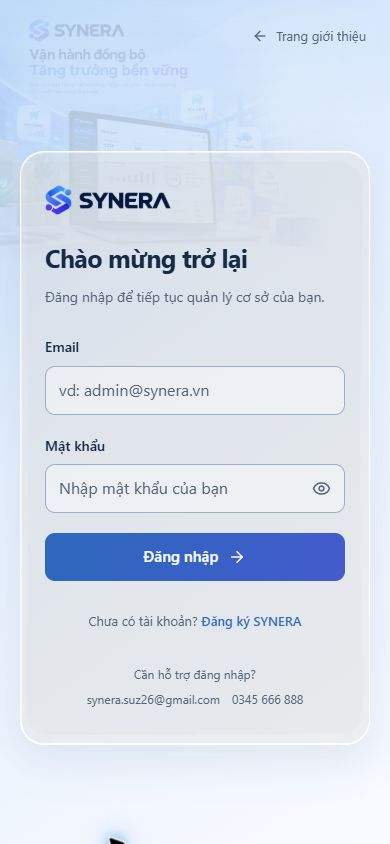
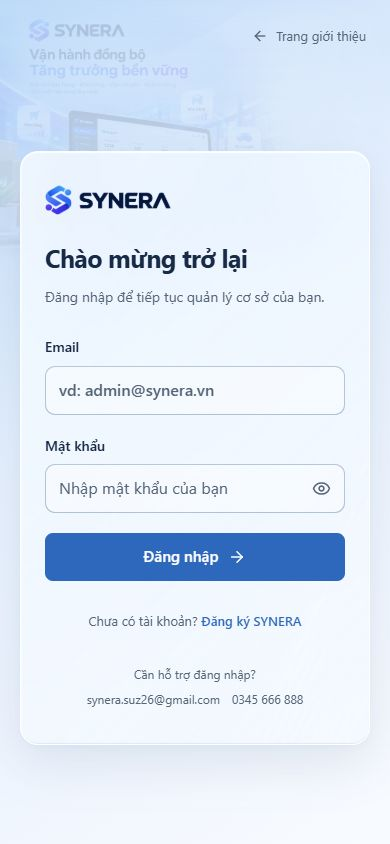
Revert "Use liquid-glass-react for SYNERA login material"
This reverts commit 55900597c729d1030a9facb94c81c5484c29b811.

diff --git a/frontend/app/login.css b/frontend/app/login.css
@@ -1,75 +1,61 @@
-/* User-approved SYNERA environment; liquid material is supplied by liquid-glass-react. */
+/* User-approved brand gradient and light glass, scoped only to the login page. */
 .synera-login {
   --login-paper: #fff; --login-ink: #122b49; --login-muted: #526479;
-  --login-blue: #1769c2; --login-hover: #1255a0; --login-line: #9cafc6;
+  --login-blue: #1769c2; --login-hover: #1255a0; --login-line: #aabed5;
   --login-sky: #b8dbfb; --login-pale: #e4f0ff; --login-near-white: #f8fbff;
-  --login-button-end: #405bd4; --login-glass: rgba(255,255,255,.28);
-  --login-blur: blur(16px) saturate(122%); --login-shadow: rgba(31,77,129,.11);
+  --login-glass: rgba(255,255,255,.25); --login-glass-line: rgba(255,255,255,.78);
+  --login-blur: blur(28px) saturate(145%); --login-input: rgba(255,255,255,.78); --login-shadow: rgba(31,77,129,.10);
   --login-error: #9e2531; --login-error-ground: #fff2f2;
   position: relative; isolation: isolate; display: grid; grid-template-columns: 58% 42%;
   min-height: 100svh; overflow: hidden; color: var(--login-ink);
-  background: radial-gradient(ellipse at 80% 52%,rgba(185,213,247,.6),transparent 55%),linear-gradient(110deg,var(--login-sky),var(--login-pale) 49%,var(--login-near-white) 80%,var(--login-paper));
+  background: radial-gradient(ellipse at 80% 52%,rgba(185,213,247,.6),transparent 55%), linear-gradient(110deg,var(--login-sky) 0%,var(--login-pale) 49%,var(--login-near-white) 80%,var(--login-paper) 100%);
   font: 15px/1.55 "Segoe UI", Arial, sans-serif;
 }
 .synera-login *, .synera-login *::before, .synera-login *::after { box-sizing: border-box; }
 .synera-login a { color: inherit; text-decoration: none; }
 .synera-login button, .synera-login input { font: inherit; }
 .synera-login p, .synera-login h1 { margin: 0; }
-.synera-login :focus-visible { outline: 2px solid var(--login-blue); outline-offset: 3px; }
-.synera-login__visual { position: absolute; z-index: -1; inset: 0 auto 0 0; width: 68%; display: flex; align-items: center; pointer-events: none; }
-.synera-login__visual img { display: block; width: 100%; height: auto; max-height: 100svh; object-fit: contain; object-position: left center; mask-image: linear-gradient(90deg,#000,#000 73%,transparent),linear-gradient(transparent,#000 8%,#000 92%,transparent); mask-composite: intersect; }
+.synera-login :focus-visible { outline: 2px solid var(--login-blue); outline-offset: 4px; }
+.synera-login__visual { position: absolute; z-index: -1; inset: 0 auto 0 0; width: 68%; display: flex; align-items: center; pointer-events: none; animation: synera-login-visual 340ms ease-out both; }
+.synera-login__visual img { display: block; width: 100%; height: auto; max-height: 100svh; object-fit: contain; object-position: left center; mask-image: linear-gradient(90deg,#000 0%,#000 73%,transparent 100%), linear-gradient(transparent 0%,#000 8%,#000 92%,transparent 100%); mask-composite: intersect; }
 .synera-login__back { position: absolute; top: 28px; right: 40px; z-index: 2; display: inline-flex; align-items: center; gap: 8px; min-height: 44px; font-size: 13px; color: var(--login-muted) !important; }
 .synera-login__back:hover { color: var(--login-blue) !important; }
 .synera-login__account { grid-column: 2; display: flex; align-items: center; justify-content: center; padding: 96px 40px 64px 0; min-width: 0; }
-.synera-login__glass { position: relative; isolation: isolate; width: min(100%,440px); border-radius: 24px; }
-/* Native fallback appears immediately during SSR and on partial-support browsers. */
-.synera-login__form { width: 100%; padding: 36px; color: var(--login-ink); background: var(--login-glass); border: 1px solid rgba(255,255,255,.82); border-radius: 24px; box-shadow: inset 0 1px 1px rgba(255,255,255,.9),0 14px 42px var(--login-shadow); -webkit-backdrop-filter: blur(16px); backdrop-filter: var(--login-blur); }
-/* Upstream's demo positioning/utility classes must not move the operational form.
-   Its five sibling layers share one stable footprint, even when validation changes height. */
-.synera-login__glass[data-glass-renderer="liquid-glass-react"] > * { transform: none !important; top: 0 !important; left: 0 !important; transition: none !important; }
-.synera-login__glass > .synera-login__material { position: relative !important; width: 100% !important; }
-.synera-login__glass[data-glass-renderer="liquid-glass-react"] > :not(.synera-login__material) { position: absolute !important; width: 100% !important; height: 100% !important; pointer-events: none !important; }
-.synera-login__glass[data-glass-renderer="liquid-glass-react"] > div:not(.synera-login__material) { display: none; } /* omit upstream demo black scrims */
-.synera-login__glass[data-glass-renderer="liquid-glass-react"] > span { z-index: 2; }
-.synera-login__material > svg { inset: 0; width: 100% !important; height: 100% !important; pointer-events: none; }
-.synera-login__material > .glass { display: block !important; width: 100%; padding: 0 !important; overflow: visible !important; border: 1px solid rgba(255,255,255,.78); background: rgba(255,255,255,.17); box-shadow: inset 0 1px 1px rgba(255,255,255,.8),0 14px 42px var(--login-shadow) !important; }
-.synera-login__material > .glass > .glass__warp { border-radius: inherit; pointer-events: none; background: rgba(255,255,255,.28); opacity: .14; }
-.synera-login__material > .glass > div { width: 100%; font: inherit !important; text-shadow: none !important; color: var(--login-ink) !important; }
-.synera-login__material .synera-login__form { background: transparent; border: 0; box-shadow: none; -webkit-backdrop-filter: none !important; backdrop-filter: none !important; }
-.synera-login__glass[data-glass-fallback] .glass__warp { filter: none !important; opacity: 1; -webkit-backdrop-filter: blur(16px); backdrop-filter: var(--login-blur) !important; background: rgba(255,255,255,.28); }
-.synera-login__glass[data-glass-static] > span { opacity: .28 !important; }
+.synera-login__form { width: min(100%,440px); padding: 36px; background: var(--login-glass); border: 1px solid var(--login-glass-line); border-radius: 20px; box-shadow: 0 16px 50px var(--login-shadow); -webkit-backdrop-filter: blur(24px); backdrop-filter: var(--login-blur); animation: synera-login-form 320ms ease-out both; }
 .synera-login__brand { display: inline-flex; align-items: center; min-height: 40px; margin-bottom: 26px; }
 .synera-login__brand .synera-logo { --synera-logo-height: 30px; --synera-logo-word: 92px; }
 .synera-login h1 { font-size: 27px; font-weight: 700; line-height: 1.3; letter-spacing: -.65px; }
 .synera-login__intro { margin-top: 10px !important; color: var(--login-muted); font-size: 14px; line-height: 1.65; }
 .synera-login form { display: grid; gap: 20px; margin-top: 28px; }
 .synera-login .sl-field { display: grid; gap: 8px; text-align: left; }
-.synera-login .sl-field > label,.synera-login .sl-field > span:not(.sl-password) { font-size: 14px; font-weight: 600; }
-.synera-login .sl-field input { width: 100%; min-height: 48px; padding: 11px 13px; border: 1px solid var(--login-line); border-radius: 10px; background: rgba(255,255,255,.42); color: var(--login-ink); font-size: 15px; font-weight: 400; transition: border-color 140ms,background-color 140ms; }
+.synera-login .sl-field > label, .synera-login .sl-field > span:not(.sl-password) { font-size: 14px; font-weight: 600; }
+.synera-login .sl-field input { width: 100%; min-height: 48px; padding: 11px 13px; border: 1px solid var(--login-line); border-radius: 8px; background: var(--login-input); color: var(--login-ink); font-size: 15px; transition: border-color 140ms,background-color 140ms; }
 .synera-login .sl-field input::placeholder { color: var(--login-muted); opacity: 1; }
 .synera-login .sl-field input:hover { border-color: var(--login-muted); }
-.synera-login .sl-field input:focus { border-color: var(--login-blue); outline: 2px solid var(--login-blue); outline-offset: 2px; background: rgba(255,255,255,.72); }
+.synera-login .sl-field input:focus { border-color: var(--login-blue); outline: 2px solid var(--login-blue); outline-offset: 2px; background: var(--login-paper); }
 .synera-login .sl-password { position: relative; display: block; }
 .synera-login .sl-password input { padding-right: 52px; }
-.synera-login .sl-password button { display: grid; place-items: center; position: absolute; top: 2px; right: 2px; width: 44px; height: 44px; padding: 0; border: 0; border-radius: 8px; color: var(--login-muted); background: transparent; cursor: pointer; transition: background-color 140ms; }
+.synera-login .sl-password button { display: grid; place-items: center; position: absolute; top: 2px; right: 2px; width: 44px; height: 44px; padding: 0; border: 0; border-radius: 6px; color: var(--login-muted); background: transparent; cursor: pointer; transition: background-color 140ms; }
 .synera-login .sl-password button:hover { background: var(--login-pale); color: var(--login-ink); }
-.synera-login .sl-button { display: inline-flex; align-items: center; justify-content: center; gap: 10px; min-height: 48px; width: 100%; padding: 11px 18px; background: linear-gradient(110deg,var(--login-blue),var(--login-button-end)); color: var(--login-paper); border: 0; border-radius: 10px; font-size: 15px; font-weight: 600; cursor: pointer; transition: filter 130ms,transform 130ms; }
-.synera-login .sl-button:hover { filter: brightness(1.06); transform: translateY(-1px); }
-.synera-login .sl-button:active { transform: scale(.985); }
-.synera-login .sl-button:disabled { background: var(--login-hover); cursor: wait; transform: none; filter: none; }
+.synera-login .sl-button { display: inline-flex; align-items: center; justify-content: center; gap: 10px; min-height: 48px; width: 100%; padding: 11px 18px; background: var(--login-blue); color: var(--login-paper); border: 0; border-radius: 8px; font-size: 15px; font-weight: 600; cursor: pointer; transition: background-color 140ms,transform 140ms; }
+.synera-login .sl-button:hover { background: var(--login-hover); }
+.synera-login .sl-button:active { transform: translateY(1px); }
+.synera-login .sl-button:disabled { background: var(--login-hover); cursor: wait; transform: none; }
 .synera-login .sl-form-error { padding: 12px 14px; border-radius: 8px; background: var(--login-error-ground); color: var(--login-error); font-size: 14px; line-height: 1.6; }
 .synera-login__form > .sl-form-error { margin-top: 20px; }
 .synera-login__register { margin-top: 24px !important; color: var(--login-muted); font-size: 13px; text-align: center; }
 .synera-login__register a { display: inline-flex; align-items: center; min-height: 32px; color: var(--login-blue); font-weight: 600; }
 .synera-login__register a:hover { text-decoration: underline; text-underline-offset: 4px; }
 .synera-login__status { color: var(--login-muted); font-size: 13px; margin-top: 16px !important; }
-.synera-login__support { display: flex; flex-wrap: wrap; justify-content: center; column-gap: 12px; margin-top: 28px; font-size: 12px; color: var(--login-muted); text-align: center; }
+.synera-login__support { display: flex; flex-wrap: wrap; justify-content: center; column-gap: 12px; row-gap: 0; margin-top: 28px; font-size: 12px; color: var(--login-muted); text-align: center; }
 .synera-login__support > span { flex-basis: 100%; }
 .synera-login__support a { display: inline-flex; align-items: center; min-height: 32px; }
 .synera-login__support a:hover { color: var(--login-blue); }
 .synera-login__external { margin-top: 28px; }
 .synera-login__external > p { margin-bottom: 20px; color: var(--login-muted); }
-@supports not ((backdrop-filter: blur(1px)) or (-webkit-backdrop-filter: blur(1px))) { .synera-login__form,.synera-login__material > .glass { background: #edf5ff; } }
+@keyframes synera-login-visual { from { opacity: 0; transform: scale(.99); } to { opacity: 1; transform: none; } }
+@keyframes synera-login-form { from { opacity: 0; transform: translateX(10px); } to { opacity: 1; transform: none; } }
+@supports not ((backdrop-filter: blur(1px)) or (-webkit-backdrop-filter: blur(1px))) { .synera-login__form { background: #f7fbff; } }
 @media (max-width: 1100px) {
   .synera-login { grid-template-columns: 48% 52%; }
   .synera-login__visual { width: 66%; }
@@ -78,16 +64,14 @@
 }
 @media (max-width: 800px) {
   .synera-login { display: flex; align-items: center; justify-content: center; background: linear-gradient(145deg,var(--login-sky),var(--login-pale) 42%,var(--login-near-white)); }
-  .synera-login__visual { width: 100%; opacity: .14; align-items: flex-start; mask-image: linear-gradient(#000,transparent 65%); }
+  .synera-login__visual { width: 100%; opacity: .14; animation: none; align-items: flex-start; mask-image: linear-gradient(#000,transparent 65%); }
   .synera-login__account { width: 100%; padding: 92px 24px 40px; }
-  .synera-login__glass { width: min(100%,420px); }
-  .synera-login__form { padding: 32px; }
-  .synera-login__material > .glass { background: rgba(255,255,255,.38); }
+  .synera-login__form { width: min(100%,420px); background: rgba(255,255,255,.42); padding: 32px; }
   .synera-login__back { top: 20px; right: 28px; }
 }
 @media (max-width: 480px) {
   .synera-login__account { padding: 80px 20px 28px; }
-  .synera-login__form { padding: 28px 24px; }
+  .synera-login__form { padding: 28px 24px; border-radius: 18px; }
   .synera-login h1 { font-size: 25px; }
   .synera-login__intro { font-size: 14px; }
   .synera-login__back { right: 24px; top: 14px; }
@@ -96,11 +80,55 @@
 }
 @media (prefers-reduced-motion: reduce) {
   .synera-login *, .synera-login *::before, .synera-login *::after { transition: none !important; animation: none !important; }
-  .synera-login .sl-button:hover,.synera-login .sl-button:active { transform: none; }
-  .synera-login__glass[data-glass-renderer="liquid-glass-react"] > span { opacity: .28 !important; }
+  .synera-login .sl-button:active { transform: none; }
+}
+
+/* Light liquid glass: optical edge and water highlights, never on business screens. */
+.synera-login__form {
+  position: relative; isolation: isolate;
+  background-image: linear-gradient(135deg,rgba(255,255,255,.42),rgba(255,255,255,.03) 46%,rgba(209,231,255,.12));
+  border-color: rgba(255,255,255,.88);
+  box-shadow: inset 0 1px 1px rgba(255,255,255,.96), inset 1px 0 1px rgba(255,255,255,.54), inset 0 -1px 1px rgba(96,146,201,.16), 0 18px 48px rgba(38,79,125,.12), 0 2px 6px rgba(38,79,125,.04);
+}
+.synera-login__form::before {
+  content: ''; position: absolute; z-index: -1; inset: 1px; border-radius: inherit; pointer-events: none;
+  background: linear-gradient(115deg,rgba(255,255,255,.20),transparent 24%,transparent 70%,rgba(255,255,255,.16));
+}
+.synera-login .sl-liquid-field {
+  --water-x: 50%; --water-y: 50%;
+  position: relative; display: block; isolation: isolate; border-radius: 10px;
+  background: rgba(255,255,255,.20);
+  box-shadow: inset 0 1px 1px rgba(255,255,255,.9), inset 0 -1px 1px rgba(84,135,188,.10);
+  transition: background-color 150ms,box-shadow 150ms;
+}
+.synera-login .sl-liquid-field > input { position: relative; z-index: 1; background: rgba(255,255,255,.22); border-color: rgba(123,157,193,.57); border-radius: inherit; transition: border-color 150ms,background-color 150ms; }
+.synera-login .sl-liquid-field > input:focus { background: rgba(255,255,255,.46); }
+.synera-login .sl-liquid-field:focus-within { box-shadow: inset 0 1px 1px rgba(255,255,255,.96),0 0 0 1px rgba(23,105,194,.10); }
+.synera-login .sl-liquid-field::before,.synera-login .sl-liquid-field::after {
+  content: ''; position: absolute; pointer-events: none; z-index: 0; opacity: 0;
+  left: clamp(50px,var(--water-x),calc(100% - 50px)); top: 50%;
+  width: 96px; height: 40px; border-radius: 50%;
+  transform: translate(-50%,-50%) scale(.82);
+  transition: opacity 150ms ease,transform 220ms ease;
+}
+.synera-login .sl-liquid-field::before {
+  background: radial-gradient(ellipse at 36% 25%,rgba(255,255,255,.92),rgba(255,255,255,.16) 42%,rgba(133,193,244,.13) 65%,transparent 72%);
+  box-shadow: inset 0 1px 1px rgba(255,255,255,.78),inset 0 -1px 2px rgba(72,138,203,.16);
+}
+.synera-login .sl-liquid-field::after {
+  width: 64px; height: 20px; top: clamp(14px,var(--water-y),calc(100% - 14px));
+  background: radial-gradient(ellipse,rgba(255,255,255,.52),transparent 70%);
+}
+.synera-login .sl-password.sl-liquid-field button { z-index: 3; }
+@media (hover: hover) and (pointer: fine) {
+  .synera-login .sl-liquid-field[data-water-active] { background: rgba(255,255,255,.30); }
+  .synera-login .sl-liquid-field[data-water-active]::before { opacity: .65; transform: translate(-50%,-50%) scale(1); }
+  .synera-login .sl-liquid-field[data-water-active]::after { opacity: .8; transform: translate(-50%,-50%) scale(1); }
+}
+@media (prefers-reduced-motion: reduce), (hover: none), (pointer: coarse) {
+  .synera-login .sl-liquid-field::before,.synera-login .sl-liquid-field::after { display: none; }
 }
 @media (prefers-reduced-transparency: reduce) {
-  .synera-login__form,.synera-login__material > .glass { background: #edf5ff; }
-  .synera-login .glass__warp { opacity: 0 !important; }
-  .synera-login .sl-field input { background: #fff; }
+  .synera-login__form { background: #edf5ff; backdrop-filter: none; -webkit-backdrop-filter: none; }
+  .synera-login .sl-liquid-field > input { background: #fff; }
 }

diff --git a/frontend/components/landing/LoginPage.jsx b/frontend/components/landing/LoginPage.jsx
@@ -5,34 +5,72 @@ import SyneraLogo from '../brand/SyneraLogo';
 import { LoginForm } from './AuthDialog';
 import { APP_HOME_URL } from '../../../shared/app-routes.mjs';
 import { CONTACT } from './landing-data.mjs';
-import LoginGlass from './LoginGlass';
 
 export default function LoginPage({ runtime = 'node', checking = false, notice = '', onSuccess }) {
   const [busy, setBusy] = useState(false);
-  const interactionArea = useRef(null);
+  const glass = useRef(null);
+  useEffect(() => {
+    const surface = glass.current;
+    const reduced = window.matchMedia('(prefers-reduced-motion: reduce)');
+    const precise = window.matchMedia('(hover: hover) and (pointer: fine)');
+    let frame = 0, field = null;
+    const clear = () => {
+      cancelAnimationFrame(frame); frame = 0;
+      field?.removeAttribute('data-water-active'); field = null;
+    };
+    const move = event => {
+      if (reduced.matches || !precise.matches || event.pointerType === 'touch') { clear(); return; }
+      const target = event.target instanceof Element ? event.target.closest('.sl-liquid-field') : null;
+      if (field !== target) { field?.removeAttribute('data-water-active'); field = target; }
+      if (!field) return;
+      const bounds = field.getBoundingClientRect();
+      const x = event.clientX - bounds.left, y = event.clientY - bounds.top;
+      cancelAnimationFrame(frame);
+      frame = requestAnimationFrame(() => {
+        frame = 0;
+        if (!field) return;
+        field.style.setProperty('--water-x', x + 'px');
+        field.style.setProperty('--water-y', y + 'px');
+        field.setAttribute('data-water-active', 'true');
+      });
+    };
+    surface.addEventListener('pointermove', move, { passive: true });
+    surface.addEventListener('pointerleave', clear);
+    surface.addEventListener('pointercancel', clear);
+    reduced.addEventListener('change', clear);
+    precise.addEventListener('change', clear);
+    return () => {
+      clear();
+      surface.removeEventListener('pointermove', move);
+      surface.removeEventListener('pointerleave', clear);
+      surface.removeEventListener('pointercancel', clear);
+      reduced.removeEventListener('change', clear);
+      precise.removeEventListener('change', clear);
+    };
+  }, []);
   useEffect(() => {
     const previous = document.title;
     document.title = 'Đăng nhập — SYNERA';
     return () => { document.title = previous; };
   }, []);
-  return <main ref={interactionArea} className="synera-login" id="login-main">
+  return <main className="synera-login" id="login-main">
     <div className="synera-login__visual">
       <img src="/assets/login/synera-product-environment.png" alt="SYNERA — Vận hành đồng bộ, tăng trưởng bền vững. Laptop quản lý kết nối đơn hàng, kho hàng, vận chuyển, khách hàng và báo cáo." width="1536" height="1024" fetchPriority="high" />
     </div>
     <a className="synera-login__back" href="/"><ArrowLeft size={16} aria-hidden="true" />Trang giới thiệu</a>
     <div className="synera-login__account">
-      <LoginGlass mouseContainer={interactionArea}><section className="synera-login__form" aria-labelledby="login-title" data-ui>
+      <section ref={glass} className="synera-login__form" aria-labelledby="login-title" data-ui>
         <a className="synera-login__brand" href="/" aria-label="SYNERA — Trang giới thiệu"><SyneraLogo decorative /></a>
         <h1 id="login-title">Chào mừng trở lại</h1>
         <p className="synera-login__intro">Đăng nhập để tiếp tục quản lý cơ sở của bạn.</p>
         {notice && <p className="sl-form-error" role="alert">{notice}</p>}
         {runtime === 'node'
-          ? <LoginForm onSuccess={onSuccess} busy={busy || checking} setBusy={setBusy} placeholders />
+          ? <LoginForm onSuccess={onSuccess} busy={busy || checking} setBusy={setBusy} placeholders liquidFields />
           : <div className="synera-login__external"><p>Tiếp tục bằng tài khoản ChatGPT đang dùng cho cơ sở.</p><a className="sl-button" href={`/signin-with-chatgpt?return_to=${encodeURIComponent(APP_HOME_URL)}`}>Tiếp tục bằng ChatGPT<ArrowRight size={18} aria-hidden="true" /></a></div>}
         {checking && <p className="synera-login__status" role="status">Đang kiểm tra phiên đăng nhập…</p>}
         <p className="synera-login__register">Chưa có tài khoản? <a href="/?auth=register">Đăng ký SYNERA</a></p>
         <footer className="synera-login__support"><span>Cần hỗ trợ đăng nhập?</span><a href={`mailto:${CONTACT.email}`}>{CONTACT.email}</a><a href={CONTACT.phoneHref}>{CONTACT.phone}</a></footer>
-      </section></LoginGlass>
+      </section>
     </div>
   </main>;
 }

diff --git a/frontend/components/landing/AuthDialog.jsx b/frontend/components/landing/AuthDialog.jsx
@@ -16,9 +16,9 @@ async function sendAuth(action, form) {
   return verified.user;
 }
 
-function PasswordField({ name = 'password', label = 'Mật khẩu', registering = false, placeholder }) {
+function PasswordField({ name = 'password', label = 'Mật khẩu', registering = false, placeholder, liquid = false }) {
   const [visible, setVisible] = useState(false), id = useId();
-  return <div className="sl-field"><label htmlFor={id}>{label}</label><span className="sl-password"><input id={id} name={name} placeholder={placeholder} type={visible ? 'text' : 'password'} required minLength={registering ? 12 : 1} maxLength={128} autoComplete={registering ? 'new-password' : 'current-password'} aria-describedby={registering && name === 'password' ? `${id}-hint` : undefined} /><button type="button" aria-label={`${visible ? 'Ẩn' : 'Hiện'} ${label.toLowerCase()}`} aria-pressed={visible} onClick={() => setVisible(value => !value)}>{visible ? <EyeOff size={19} aria-hidden="true" /> : <Eye size={19} aria-hidden="true" />}</button></span>{registering && name === 'password' && <small id={`${id}-hint`}>Từ 12 đến 128 ký tự. Bạn có thể dán hoặc dùng trình quản lý mật khẩu.</small>}</div>;
+  return <div className="sl-field"><label htmlFor={id}>{label}</label><span className={liquid ? "sl-password sl-liquid-field" : "sl-password"}><input id={id} name={name} placeholder={placeholder} type={visible ? 'text' : 'password'} required minLength={registering ? 12 : 1} maxLength={128} autoComplete={registering ? 'new-password' : 'current-password'} aria-describedby={registering && name === 'password' ? `${id}-hint` : undefined} /><button type="button" aria-label={`${visible ? 'Ẩn' : 'Hiện'} ${label.toLowerCase()}`} aria-pressed={visible} onClick={() => setVisible(value => !value)}>{visible ? <EyeOff size={19} aria-hidden="true" /> : <Eye size={19} aria-hidden="true" />}</button></span>{registering && name === 'password' && <small id={`${id}-hint`}>Từ 12 đến 128 ký tự. Bạn có thể dán hoặc dùng trình quản lý mật khẩu.</small>}</div>;
 }
 
 function useAuthSubmit(action, { onSuccess, setBusy }) {
@@ -36,8 +36,8 @@ function useAuthSubmit(action, { onSuccess, setBusy }) {
 export function LoginForm(props) {
   const { error, errorRef, submit } = useAuthSubmit('login', props);
   return <form aria-label="Biểu mẫu đăng nhập" onSubmit={submit} aria-busy={props.busy}>
-    <label className="sl-field"><span>Email</span><span><input name="email" type="email" placeholder={props.placeholders ? 'vd: admin@synera.vn' : undefined} autoComplete="email" maxLength={254} required /></span></label>
-    <PasswordField placeholder={props.placeholders ? 'Nhập mật khẩu của bạn' : undefined} />
+    <label className="sl-field"><span>Email</span><span className={props.liquidFields ? "sl-liquid-field" : undefined}><input name="email" type="email" placeholder={props.placeholders ? 'vd: admin@synera.vn' : undefined} autoComplete="email" maxLength={254} required /></span></label>
+    <PasswordField liquid={props.liquidFields} placeholder={props.placeholders ? 'Nhập mật khẩu của bạn' : undefined} />
     {error && <p className="sl-form-error" role="alert" tabIndex={-1} ref={errorRef}>{error}</p>}
     <button className="sl-button" disabled={props.busy} type="submit">{props.busy ? 'Đang đăng nhập…' : 'Đăng nhập'}<ArrowRight size={18} aria-hidden="true" /></button>
   </form>;

diff --git a/docs/LOGIN-PAGE.md b/docs/LOGIN-PAGE.md
@@ -1,65 +1,50 @@
-# Trang đăng nhập SYNERA
+# Trang đăng nhập riêng của SYNERA
 
-Landing mở trang `/login` riêng; Node hỗ trợ truy cập trực tiếp, refresh và HEAD. Cloudflare dùng adapter `app/login/page.tsx`. Đăng ký vẫn mở biểu mẫu hiện có tại `/?auth=register`.
+Nút Đăng nhập mở `/login` thay modal. Node hỗ trợ trực tiếp `/login`, `/login/`, HEAD và refresh; Cloudflare có adapter tại `app/login/page.tsx`. Đăng ký vẫn dùng form sẵn có trên landing.
 
-## Giao diện và material
+## Thiết kế hiện tại
 
-Artwork SYNERA được chủ dự án duyệt hòa vào nền xanh → xanh nhạt → gần trắng. Desktop chia 58%/42%, khung tối đa 440px. Ảnh dùng `object-fit: contain` để giữ laptop/dashboard; mask làm mềm các mép. Tablet/mobile chuyển một cột, artwork mờ phía sau form.
+Theo bản mô tả và ba ảnh chủ dự án gửi ngày 28/10/2026: toàn viewport, hình quảng bá SYNERA bên trái, form kính sáng bên phải, nền xanh → xanh nhạt → gần trắng không có đường chia cứng. Desktop chia 58%/42%; form rộng tối đa 440px. Laptop, dashboard và module trong artwork được giữ đầy đủ bằng `object-fit: contain`, không crop laptop. Mask cả mép phải và mép trên/dưới giúp ảnh hòa vào nền. Mobile/tablet dùng hình mờ nhẹ phía sau form; không ép hai cột.
 
-Dùng **package thật `liquid-glass-react@1.1.1`**, đã đọc [README và implementation upstream](https://github.com/rdev/liquid-glass-react). `LoginGlass.jsx` bọc form bằng đúng **một** `LiquidGlass`, không dùng từng instance trên mỗi input. Các input là control trong suốt nhẹ, cao 48px; password toggle 44px; font Segoe UI hỗ trợ tiếng Việt. Chữ/nội dung form ở lớp riêng, không nhận filter khúc xạ.
+Giữ Segoe UI hỗ trợ tiếng Việt và màu SYNERA. Input 48px, hiện mật khẩu 44px, tiêu đề 25–27px; helper có tương phản với nền. Một nút chính xanh. Không thêm thông tin demo, ghi nhớ đăng nhập, quên mật khẩu hay Google vì chưa có tính năng tương ứng.
 
-| Thuộc tính | Giá trị |
-| --- | --- |
-| mode | `standard` |
-| displacementScale | `42` (upstream tự nhân 0.5 khi `overLight`) |
-| blurAmount | `0.10` (upstream tạo blur `15.2px` khi `overLight`) |
-| saturation | `122` |
-| aberrationIntensity | `0.6` |
-| elasticity | `0` để khung luôn đứng yên |
-| cornerRadius | `24` |
-| overLight | `true` |
-| padding | `0px` — spacing nằm trong form SYNERA |
+Gradient, glass, shadow và entrance 320–340ms là ngoại lệ theo yêu cầu trực tiếp của chủ dự án, thay quy tắc mặc định trong design-taste-frontend. Không dùng hình dark-glass theo nghĩa đen, glow, bounce, particle hoặc animation liên tục. CSS có fallback khi không hỗ trợ backdrop-filter, và tắt animation/transition khi `prefers-reduced-motion: reduce`.
 
-`mouseContainer` nhận ref toàn trang. Viền phản sáng tự nhiên của package thay đổi theo chuột; không nghiêng, xoay hay kéo form. CSS giới hạn các lớp mặc định của package vào một footprint, bỏ scrim đen và giảm shadow. Opacity lớp quang học `0.14` giữ nền sáng; các lớp viền của package vẫn hoạt động. Chiều cao lớp kính/viền theo form khi xuất hiện lỗi, không cắt thông báo.
+## Asset và nguồn
 
-Các override chỉ áp dụng trong `.synera-login`; không sửa node_modules hoặc màn hình khác. Thứ tự prefix backdrop-filter được kiểm tra trên CSS production để phần chứa chữ thực sự có `backdrop-filter: none`.
+- `frontend/public/assets/login/synera-product-environment.png`: bản nâng độ nét 1536×1024 do imagegen tạo từ ảnh quảng bá 540×360 chủ dự án cung cấp, giữ logo, tagline, laptop/dashboard và các module. Đây là biến thể từ ảnh tham chiếu, không phải file gốc nguyên byte. Không thêm ảnh kho Pexels vào thiết kế mới.
+- Logo trên form dùng lại component/asset thương hiệu hiện có; bản logo trong artwork là một phần ảnh tham chiếu.
+- Artwork là hình quảng bá; dữ liệu/chart in trong hình không phải dữ liệu live hoặc thay đổi màn hình quản trị.
+- Ảnh kho Pexels của vòng đầu đã loại khỏi source branch vì không còn được dùng.
+- Tham khảo luồng trang riêng: [Sapo](https://www.sapo.vn/dang-nhap-kenh-ban-hang.html). Không sao chép thông tin tài khoản hoặc asset Sapo.
 
-## Fallback, accessibility và chuyển động
+## Xác thực và phạm vi
 
-- `login-glass-policy.mjs` chỉ bật displacement cho Chromium có backdrop-filter. Safari/Firefox/iOS hoặc môi trường thiếu hỗ trợ dùng cùng bố cục với nền trong suốt nhẹ, blur/saturation, viền và shadow; không hiện cảnh báo trình duyệt. Không có backdrop-filter thì dùng nền đặc sáng.
-- SSR hiển thị khung tĩnh trước khi mount: không render package đang đọc `navigator` trên server.
-- Touch/coarse pointer và reduced motion không đăng ký theo dõi chuột của package; truyền cả `globalMousePos` và `mouseOffset` tĩnh. Media preference thay đổi được cập nhật và listener được dọn khi unmount; không remount form theo preference.
-- `prefers-reduced-transparency` dùng nền đặc và ẩn lớp quang học.
-- Tái sử dụng **GSAP/@gsap/react có sẵn**: entrance một lần, 360ms, x14/y5/scale0.985 → vị trí gốc, ease-out; nhóm nội dung stagger 30ms. Cleanup và `matchMedia` hỗ trợ đổi reduced motion ngay khi trang đang mở. Không có loop, spring, tilt hay parallax nền.
-- CTA gradient xanh → xanh tím theo thương hiệu, hover y−1px, active scale0.985, 130ms. Reduced motion tắt chuyển động. Giữ focus ring, label, autocomplete, thông báo lỗi và password toggle dùng được bằng bàn phím.
+`LoginForm`, `sendAuth` và API giữ nguyên logic. Chỉ thêm placeholder cho form login mới. Email là phương thức thực sự hỗ trợ; không quảng cáo số điện thoại đăng nhập. Bước xác nhận HttpOnly session, ID người dùng và home route `/#/` được giữ nguyên trước chuyển trang. Validation, lỗi mạng, thông tin sai, focus đến alert, hiện mật khẩu và loading vẫn như trước. Profile ChatGPT giữ đường đăng nhập riêng có sẵn.
 
-Glass, gradient và shadow là yêu cầu trực tiếp của chủ dự án, được ưu tiên so với quy tắc mặc định của design-taste-frontend. Áp dụng hướng dẫn về form, tương phản và motion của UI/UX Pro Max đã đọc từ zip người dùng cung cấp.
+Link `/?auth=login` và đăng xuất cũ chuyển tiếp đến `/login`. `/login` với phiên hợp lệ về home; tracking người nhận giữ nguyên kiểm tra. Không đổi domain, account-auth, quyền, lưu dữ liệu, API payload hoặc trang quản trị. Không sửa landing video của cộng tác viên. Chỉ cập nhật branch `feat/dedicated-login-page`, PR #2; chưa merge main.
 
-## Xác thực giữ nguyên
+## Kiểm tra
 
-Không thay đổi `sendAuth`, `useAuthSubmit`, API, payload, HttpOnly session, ID người dùng, validation, phân quyền hay dữ liệu. Login vẫn POST `/api/auth/login`, rồi xác nhận `/api/auth/session` trước khi vào `/#/`. Đăng nhập sai giữ người dùng ở form và focus đến alert. Hiện/ẩn mật khẩu, loading, lỗi mạng và form đăng ký có sẵn được giữ lại. Profile Cloudflare tiếp tục đường đăng nhập ChatGPT hiện có.
+- 51/51 Node tests đạt, gồm auth, domain, route mới và chặn source.
+- TypeScript đạt; Node và Cloudflare production build đạt.
+- Client bundle privacy check đạt cả hai profile.
+- CUA kiểm tra hình ảnh tại 1920×1080, 1440×900, 768×1024, 390×844: không tràn ngang, form đọc được, laptop không crop; computed backdrop-filter thực tế `blur(28px) saturate(145%)` sau build.
+- Browser: đăng nhập sai giữ `/login`, focus alert; đăng nhập đúng bằng Enter về `/#/`; Tab/Space và hiện/ẩn mật khẩu hoạt động; mở menu mobile và đăng xuất quay lại login.
+- Reduced motion: kiểm tra media rule trong source; không tuyên bố đã giả lập preference hệ điều hành. Form và nội dung hiển thị tĩnh khi animation bị tắt.
+- Không chạy inspector ngoài CUA. Lint mặc định từ vòng đầu không dùng làm kết quả cho vòng này vì gradient/glass được người dùng yêu cầu.
 
-Không thêm ghi nhớ đăng nhập, quên mật khẩu, Google hay đăng nhập bằng điện thoại. Không sửa landing video hoặc màn hình quản trị. Chỉ cập nhật branch `feat/dedicated-login-page`, [PR #2](https://github.com/quandao-rgb/synera-web/pull/2); chưa merge main hoặc deploy Render.
+Đánh giá hình ảnh: một nền liền, form nhỏ gọn có tương phản rõ, không còn khung trắng bọc toàn trang hoặc divider cứng. Ở mobile ảnh nhận diện giảm opacity 0.14 để ưu tiên thao tác. Chỉ có nội dung thật cần cho đăng nhập và liên hệ đã được chủ dự án cung cấp.
 
-## Kiểm chứng
+![1920px](login-wide.png)
 
-- **54/54 Node tests đạt**: toàn bộ auth/domain/route hiện có; thêm kiểm tra policy Chromium/Safari/Firefox/iOS/no-backdrop, motion/touch/transparency và SSR không có navigator.
-- TypeScript, Node build và Cloudflare build đạt; client bundle privacy check đạt cả hai profile.
-- Chrome qua CUA: layout 1920×1080, 1440×900, 768×1024, 390×844 không tràn ngang. Chữ và input không nhận filter; form không nhận backdrop-filter. Thử focus và phản sáng chuột: viền đổi, tọa độ khung giữ nguyên.
-- Browser: required validation, login sai/focus alert, Tab/Space bật/tắt mật khẩu, login đúng bằng Enter → Tổng quan, logout → `/login`; link đăng ký mở đúng form hiện có. Khi lỗi xuất hiện, lớp kính mở rộng theo form.
-- **Giới hạn:** Safari/Firefox được kiểm tra bằng policy và CSS fallback, chưa chạy trực tiếp trên các trình duyệt đó. Reduced-motion/touch được kiểm tra bằng policy, CSS và cleanup GSAP; chưa giả lập preference hệ điều hành trong browser. Ảnh responsive là thay đổi viewport Chrome, không phải thiết bị touch thật.
-
-![Desktop rộng](login-wide.png)
-
-![Desktop](login-desktop.png)
+![1440px](login-desktop.png)
 
 ![Tablet](login-tablet.png)
 
 ![Mobile](login-mobile.png)
 
-## Asset và chạy local
-
-`frontend/public/assets/login/synera-product-environment.png` là bản 1536×1024 tạo bằng imagegen từ ảnh quảng bá 540×360 chủ dự án cung cấp. Đây là biến thể nâng độ nét, không phải file gốc nguyên byte. Artwork là hình quảng bá, dữ liệu in trong ảnh không phải dashboard live. Logo trên form dùng component thương hiệu hiện có. Tham khảo luồng trang riêng từ [Sapo](https://www.sapo.vn/dang-nhap-kenh-ban-hang.html); không sao chép thông tin tài khoản/asset Sapo.
+## Chạy
 
 ```powershell
 git fetch origin
@@ -69,6 +54,12 @@ npm.cmd run build:render
 npm.cmd run dev:local
 ```
 
-Lệnh switch dùng cho máy chưa có branch local tương ứng; nếu đã có thì `git switch feat/dedicated-login-page`. Không chuyển branch khi đang có thay đổi chưa lưu. Cài/chạy từ gốc repository, không chạy trong riêng frontend.
+Mở `http://localhost:4182/login`. Preview riêng của phiên này: `http://127.0.0.1:4186/login`, dùng database QA riêng, không chia sẻ cookie với `localhost`.
 
-Local mặc định: `http://localhost:4182/login`. Preview riêng trong phiên làm việc này: `http://127.0.0.1:4186/login`, database QA riêng với bản gốc `C:\SYNERA`.
+## Bổ sung kính và giọt nước
+
+Theo yêu cầu tiếp theo của chủ dự án, form dùng lớp trắng opacity 0.25, optical edge, inset reflection và blur 28px/saturate 145%. Input là lớp kính nhẹ; phản sáng hình giọt nước dịch chuyển theo chuột trong phạm vi mỗi ô. CSS variable cập nhật qua requestAnimationFrame, không dùng React state mỗi frame, không thêm dependency. Phản sáng ở dưới chữ, pointer-events none; không chặn nhập liệu hoặc nút mắt. Mất hover khi rời ô, hủy pointer hoặc media preference thay đổi. Effect và listener được dọn khi unmount.
+
+Chỉ bật giọt nước cho fine pointer có hover. Touch/coarse pointer và prefers-reduced-motion không có hiệu ứng giọt nước; keyboard luôn có focus ring. prefers-reduced-transparency có nền đặc thay thế. Không mô phỏng vật lý iOS hoặc dùng displacement filter nặng; đây là lớp trình bày lấy cảm hứng kính theo ảnh của chủ dự án.
+
+Kiểm tra vòng này: 51/51 tests, TypeScript, Node/Cloudflare build và bundle privacy đạt. CUA xác nhận pointer vào ô active, ra ngoài clear; computed blur 28px/saturate 1.45, highlight z-index 0 dưới text z-index 1; không overflow 1920/1440/768/390. Login sai giữ lỗi, đúng bằng Enter vào Tổng quan; Tab/Space hiện mật khẩu và đăng xuất hoạt động. Reduced preferences kiểm tra theo source, không tuyên bố đã giả lập hệ điều hành.
